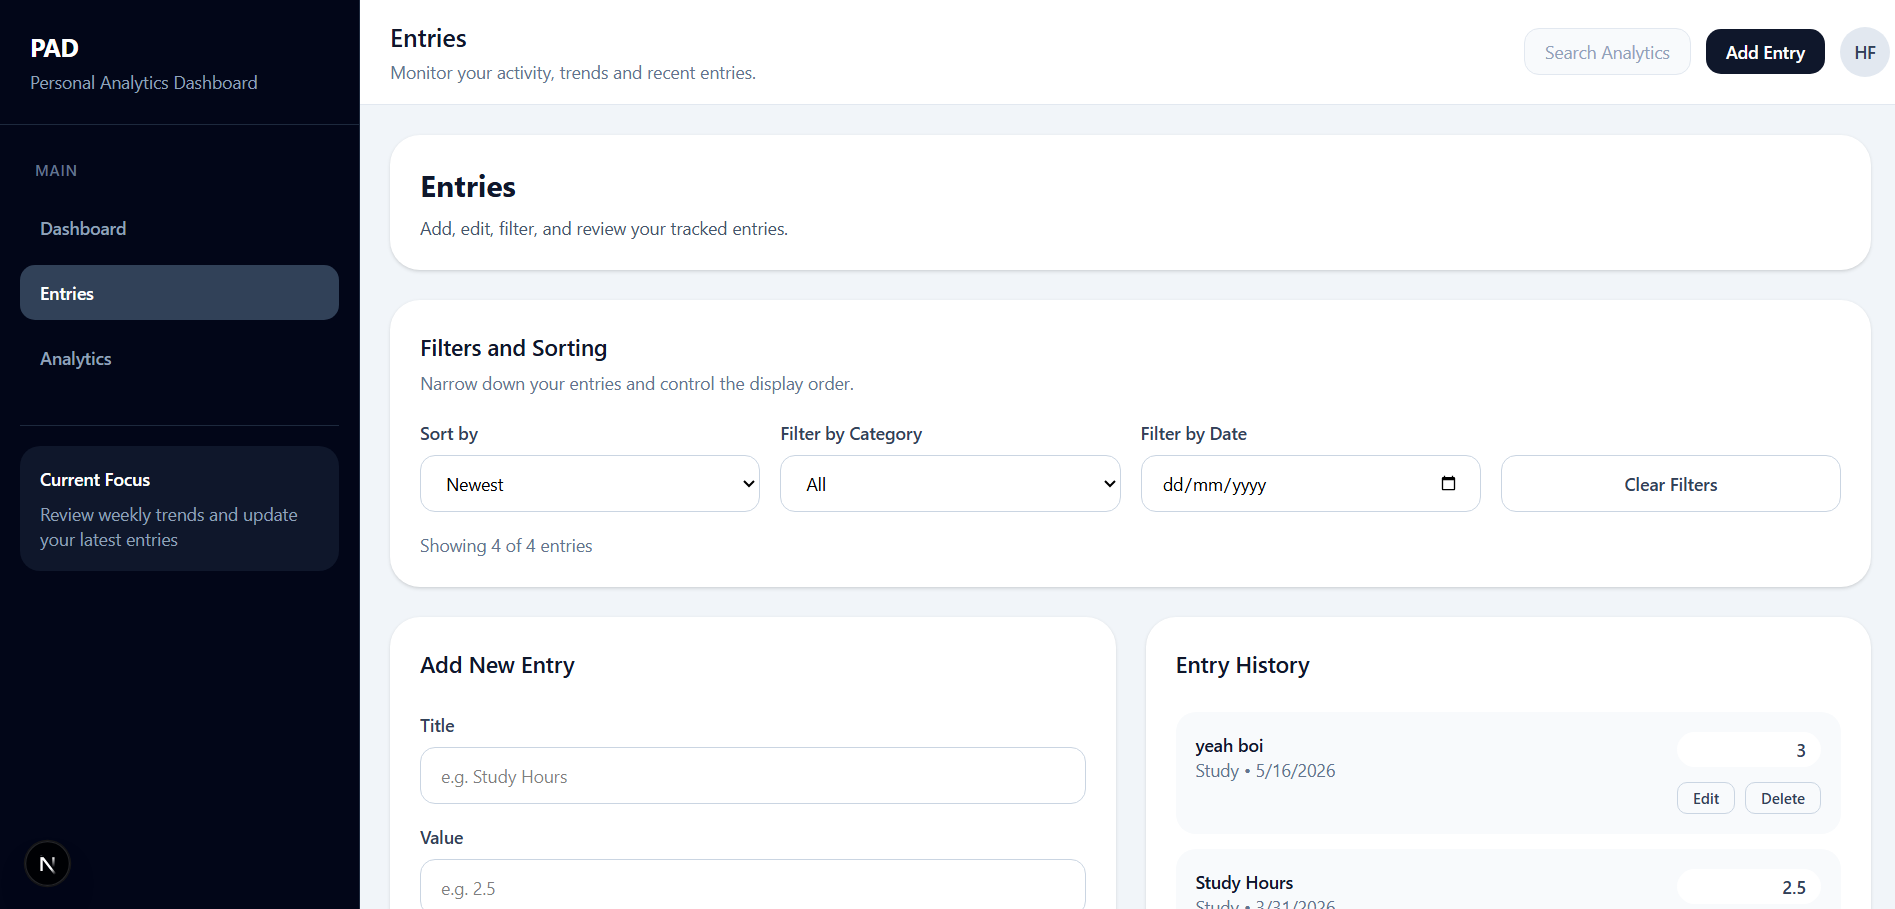
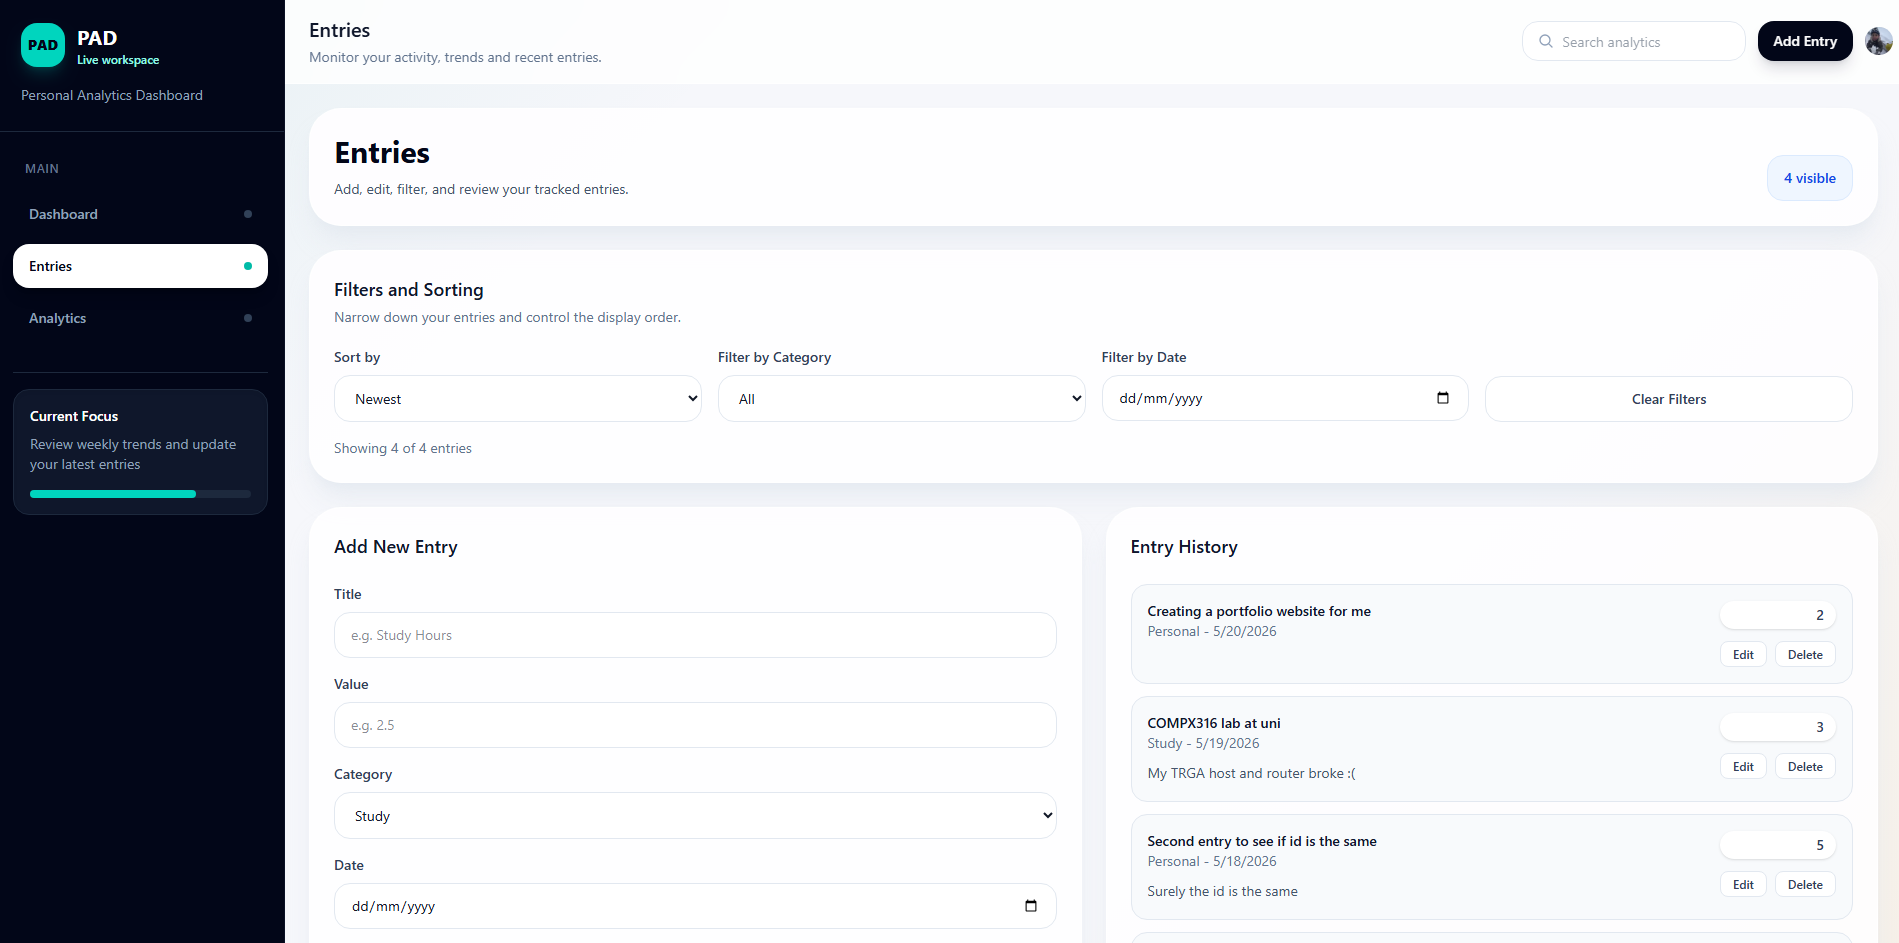
Updated the README.md file

diff --git a/README.md b/README.md
@@ -16,6 +16,8 @@ Authenticated personal metrics tracker for logging study, finance, health, and p
 
 <img src="Images/Analytics.png" width="700" alt="Analytics page with category totals and time-series charts"/>
 
+<img src="Images/Authentication.png" width="700" alt="Clerk authentication page when you visit the site for the first time"/>
+
 ---
 
 ## What the app does